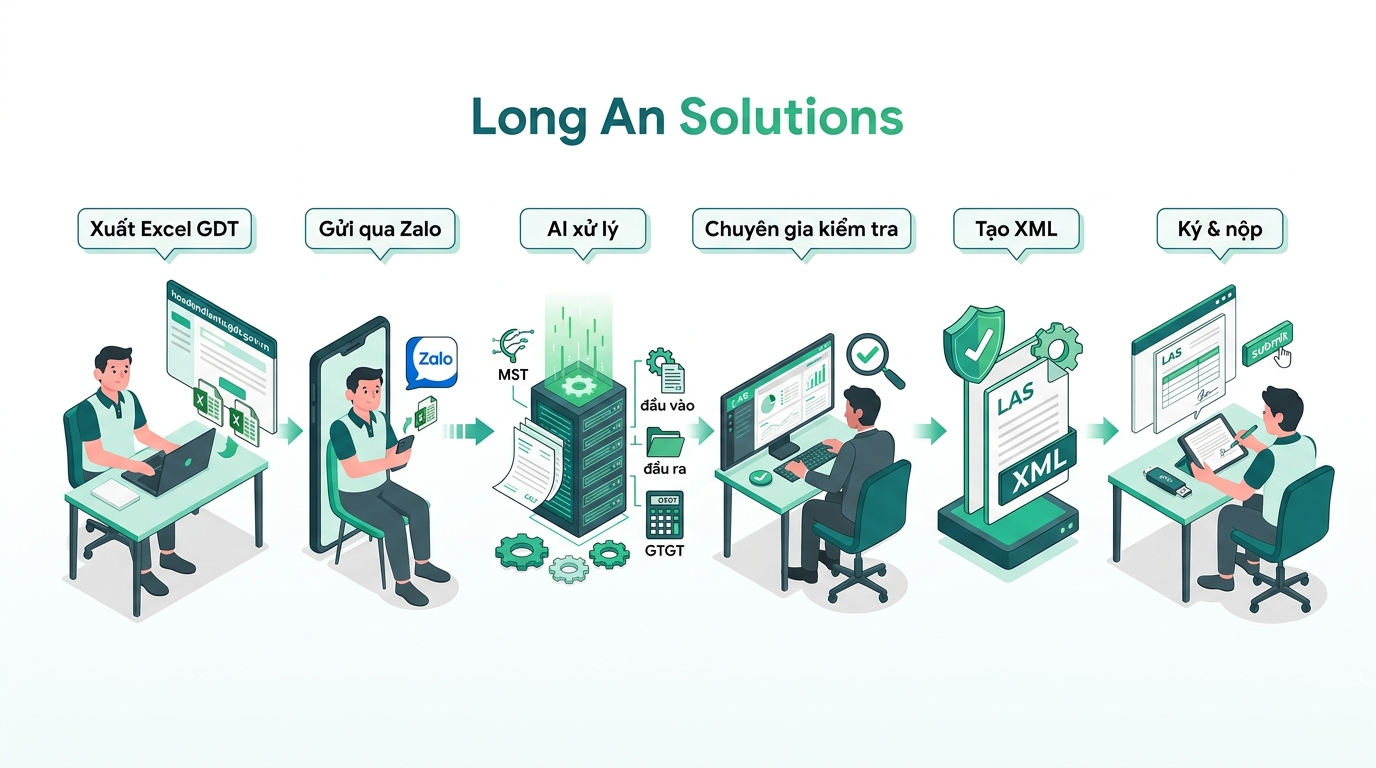
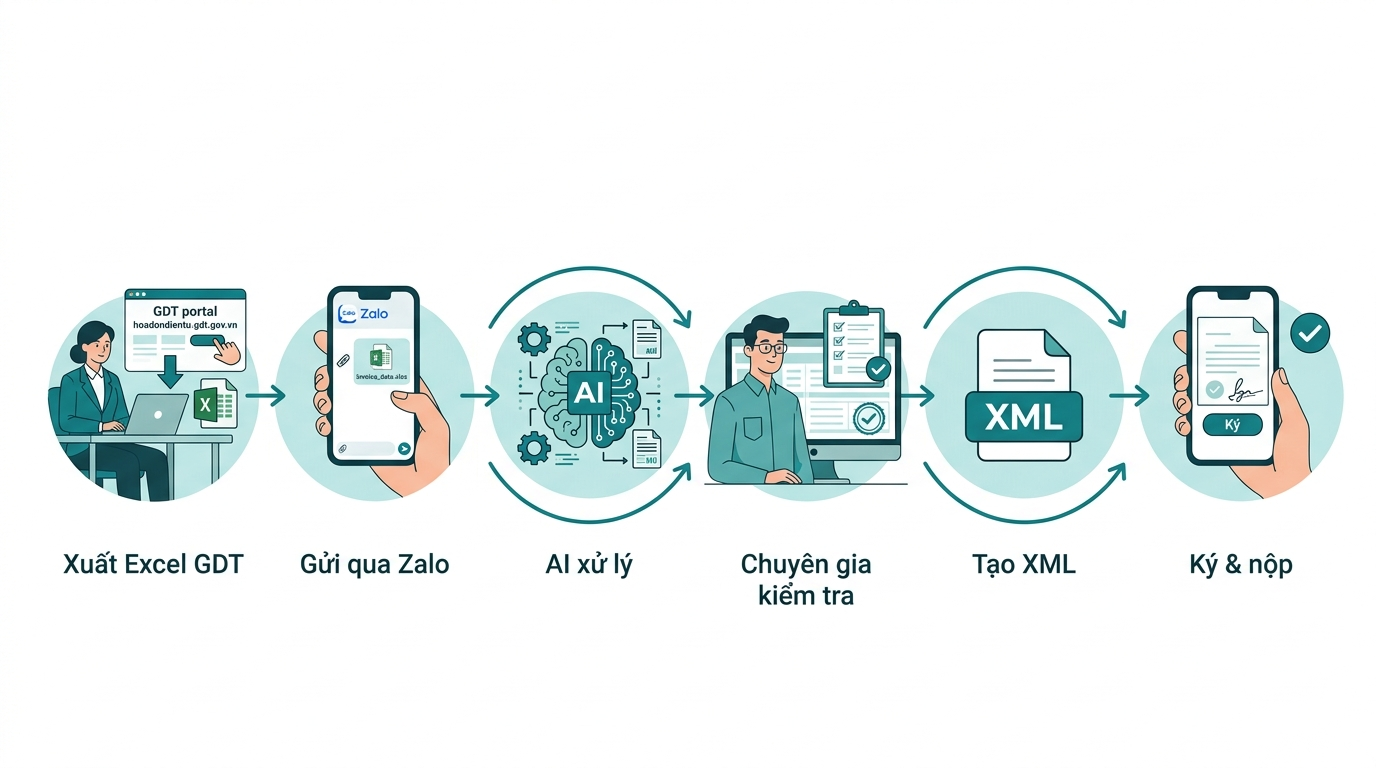
fix: revert broken CSS, regenerate all 3 graphics
- Reverted hero CSS that broke layout
- Removed process flow image from steps section (will place better later)
- Regenerated all 3 images with cleaner prompts

Changed region(s): [[0.0312, 0.25, 1.0, 0.8125], [0.3438, 0.125, 0.6562, 0.1875], [0.0625, 0.25, 0.1875, 0.3438]]

diff --git a/index.html b/index.html
@@ -44,9 +44,8 @@
     .hero{background:linear-gradient(135deg,rgba(244,250,251,.95) 0,rgba(232,245,245,.95) 40%,rgba(244,250,251,.95) 100%),url('hero-bg.jpg') center/cover fixed;padding:80px 0 64px;border-bottom:1px solid #e0eaea;text-align:center;position:relative;overflow:hidden}
     .hero-inner{display:flex;align-items:center;gap:48px}
     .hero-text{flex:1;text-align:center}
-    .hero-visual{display:block;margin-bottom:24px}
-    .hero-visual img{width:100%;height:auto;border-radius:12px;max-height:280px;object-fit:contain}
-    @media(min-width:860px){.hero-text{text-align:left}.hero-visual{flex:0 0 380px;margin-bottom:0}.hero-visual img{max-height:none;object-fit:initial;border-radius:16px}}
+    .hero-visual{display:none}
+    @media(min-width:860px){.hero-text{text-align:left}.hero-visual{display:block;flex:0 0 380px}.hero-visual img{width:100%;height:auto;border-radius:16px}}
     .hero::before{content:"";position:absolute;top:-80px;right:-120px;width:400px;height:400px;background:radial-gradient(circle,rgba(13,110,110,.06) 0,transparent 70%);pointer-events:none;border-radius:50%}
     .hero::after{content:"";position:absolute;bottom:-100px;left:-80px;width:300px;height:300px;background:radial-gradient(circle,rgba(13,110,110,.04) 0,transparent 70%);pointer-events:none;border-radius:50%}
     .hero-badge{display:inline-block;background:rgba(13,110,110,.1);color:#0d6e6e;font-size:.82rem;font-weight:700;padding:6px 16px;border-radius:20px;margin-bottom:20px;border:1px solid rgba(13,110,110,.2);backdrop-filter:blur(2px)}
@@ -264,9 +263,6 @@
       <div class="section-header fade-in">
         <h2 data-key="hw_h">Cách hoạt động</h2>
         <p data-key="hw_sub">4 bước đơn giản — bạn chỉ cần gửi hóa đơn</p>
-      </div>
-      <div class="text-center mb-8">
-        <img src="process-flow-illustration.jpg" alt="Quy trình từ xuất Excel GDT đến ký nộp tờ khai" loading="lazy" style="max-width:100%;height:auto;border-radius:12px;box-shadow:0 4px 16px rgba(0,0,0,.08)">
       </div>
       <div class="steps">
         <div class="step fade-in">